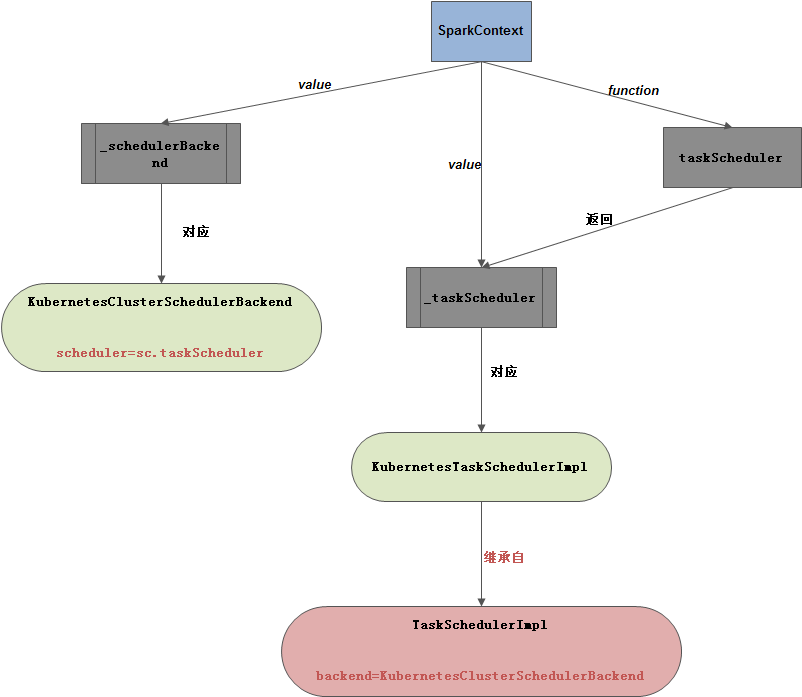
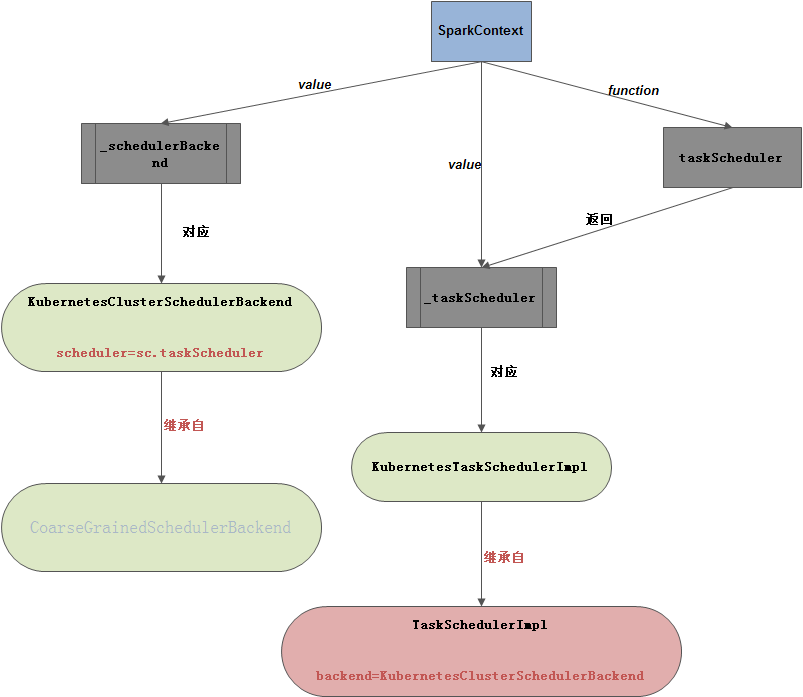
Add 2017-9-7-Spark-on-k8s-executor-creation.md

diff --git a/_posts/2017-9-7-Spark-on-k8s-executor-creation.md b/_posts/2017-9-7-Spark-on-k8s-executor-creation.md
@@ -967,10 +967,44 @@ private[spark] object Client {
   }
 ```
 
-创建`driver pod`如下：
+`val createdDriverPod = kubernetesClient.pods().create(resolvedDriverPod)`创建`driver pod`如下：
 
 ```scala
-`val createdDriverPod = kubernetesClient.pods().create(resolvedDriverPod)`
+    Utils.tryWithResource(
+        kubernetesClient
+            .pods()
+            .withName(resolvedDriverPod.getMetadata.getName)
+            .watch(loggingPodStatusWatcher)) { _ =>
+      val createdDriverPod = kubernetesClient.pods().create(resolvedDriverPod)
+      try {
+        val driverOwnedResources = Seq(initContainerConfigMap) ++
+          maybeSubmittedDependenciesSecret.toSeq ++
+          credentialsSecret.toSeq
+        val driverPodOwnerReference = new OwnerReferenceBuilder()
+          .withName(createdDriverPod.getMetadata.getName)
+          .withApiVersion(createdDriverPod.getApiVersion)
+          .withUid(createdDriverPod.getMetadata.getUid)
+          .withKind(createdDriverPod.getKind)
+          .withController(true)
+          .build()
+        driverOwnedResources.foreach { resource =>
+          val originalMetadata = resource.getMetadata
+          originalMetadata.setOwnerReferences(Collections.singletonList(driverPodOwnerReference))
+        }
+        kubernetesClient.resourceList(driverOwnedResources: _*).createOrReplace()
+      } catch {
+        case e: Throwable =>
+          kubernetesClient.pods().delete(createdDriverPod)
+          throw e
+      }
+      if (waitForAppCompletion) {
+        logInfo(s"Waiting for application $kubernetesAppId to finish...")
+        loggingPodStatusWatcher.awaitCompletion()
+        logInfo(s"Application $kubernetesAppId finished.")
+      } else {
+        logInfo(s"Deployed Spark application $kubernetesAppId into Kubernetes.")
+      }
+    }
 ```
 
 最后直接退出或者等待`driver`运行结束：
@@ -1471,7 +1505,7 @@ private[spark] class KubernetesTaskSchedulerImpl(sc: SparkContext) extends TaskS
   }
 ```
 
-**返回`KubernetesClusterSchedulerBackend`对象**
+**返回`KubernetesClusterSchedulerBackend`对象，该类继承`CoarseGrainedSchedulerBackend`类**
 
 3、再看`KubernetesClusterManager`的`initialize`函数，如下：
 
@@ -1520,4 +1554,317 @@ private[spark] class KubernetesTaskSchedulerImpl(sc: SparkContext) extends TaskS
 关系图示如下：
 
 ![](/public/img/spark/class_relation.png)
+
+再看如下代码：
+
+```scala
+    // start TaskScheduler after taskScheduler sets DAGScheduler reference in DAGScheduler's
+    // constructor
+    _taskScheduler.start()
+```
+
+运行`TaskSchedulerImpl`的`start`函数，如下：
+
+```scala
+  override def start() {
+    backend.start()
+
+    if (!isLocal && conf.getBoolean("spark.speculation", false)) {
+      logInfo("Starting speculative execution thread")
+      speculationScheduler.scheduleAtFixedRate(new Runnable {
+        override def run(): Unit = Utils.tryOrStopSparkContext(sc) {
+          checkSpeculatableTasks()
+        }
+      }, SPECULATION_INTERVAL_MS, SPECULATION_INTERVAL_MS, TimeUnit.MILLISECONDS)
+    }
+  }
+```
+
+运行`backend.start()`，也即运行`KubernetesClusterSchedulerBackend`的`start`函数，如下：
+
+```scala
+  override def start(): Unit = {
+    super.start()
+    executorWatchResource.set(kubernetesClient.pods().withLabel(SPARK_APP_ID_LABEL, applicationId())
+      .watch(new ExecutorPodsWatcher()))
+
+    allocator.scheduleWithFixedDelay(
+      allocatorRunnable, 0, podAllocationInterval, TimeUnit.SECONDS)
+
+    if (!Utils.isDynamicAllocationEnabled(sc.conf)) {
+      doRequestTotalExecutors(initialExecutors)
+    } else {
+      shufflePodCache = shuffleServiceConfig
+        .map { config => new ShufflePodCache(
+          kubernetesClient, config.shuffleNamespace, config.shuffleLabels) }
+      shufflePodCache.foreach(_.start())
+      kubernetesExternalShuffleClient.foreach(_.init(applicationId()))
+    }
+  }
+```
+
+1、运行`CoarseGrainedSchedulerBackend`的`start`函数，如下：
+
+```scala
+  override def start() {
+    val properties = new ArrayBuffer[(String, String)]
+    for ((key, value) <- scheduler.sc.conf.getAll) {
+      if (key.startsWith("spark.")) {
+        properties += ((key, value))
+      }
+    }
+
+    // TODO (prashant) send conf instead of properties
+    driverEndpoint = createDriverEndpointRef(properties)
+  }
+```
+
+2、`watch`具有如下labels:`spark-app-id`:`spark.kubernetes.driver.pod.name`的`Pod`状态：
+
+```scala
+    executorWatchResource.set(kubernetesClient.pods().withLabel(SPARK_APP_ID_LABEL, applicationId())
+      .watch(new ExecutorPodsWatcher()))
+```
+
+`ExecutorPodsWatcher`类如下：
+
+```scala
+  private class ExecutorPodsWatcher extends Watcher[Pod] {
+
+    override def eventReceived(action: Action, pod: Pod): Unit = {
+      if (action == Action.MODIFIED && pod.getStatus.getPhase == "Running"
+          && pod.getMetadata.getDeletionTimestamp == null) {
+        val podIP = pod.getStatus.getPodIP
+        val clusterNodeName = pod.getSpec.getNodeName
+        logDebug(s"Executor pod $pod ready, launched at $clusterNodeName as IP $podIP.")
+        EXECUTOR_PODS_BY_IPS_LOCK.synchronized {
+          executorPodsByIPs += ((podIP, pod))
+        }
+      } else if ((action == Action.MODIFIED && pod.getMetadata.getDeletionTimestamp != null) ||
+          action == Action.DELETED || action == Action.ERROR) {
+        val podName = pod.getMetadata.getName
+        val podIP = pod.getStatus.getPodIP
+        logDebug(s"Executor pod $podName at IP $podIP was at $action.")
+        if (podIP != null) {
+          EXECUTOR_PODS_BY_IPS_LOCK.synchronized {
+            executorPodsByIPs -= podIP
+          }
+        }
+      }
+    }
+
+    override def onClose(cause: KubernetesClientException): Unit = {
+      logDebug("Executor pod watch closed.", cause)
+    }
+  }
+```
+
+3、在`static allocation`配置下（默认配置），执行`doRequestTotalExecutors(initialExecutors)`函数，设置`totalExpectedExecutors`为参数`spark.executor.instances`，如下：
+
+```scala
+  protected var totalExpectedExecutors = new AtomicInteger(0)
+
+  override def doRequestTotalExecutors(requestedTotal: Int): Future[Boolean] = Future[Boolean] {
+    totalExpectedExecutors.set(requestedTotal)
+    true
+  }
+
+  private val initialExecutors = getInitialTargetExecutorNumber(1)
+
+  private def getInitialTargetExecutorNumber(defaultNumExecutors: Int = 1): Int = {
+    if (Utils.isDynamicAllocationEnabled(conf)) {
+      val minNumExecutors = conf.getInt("spark.dynamicAllocation.minExecutors", 0)
+      val initialNumExecutors = Utils.getDynamicAllocationInitialExecutors(conf)
+      val maxNumExecutors = conf.getInt("spark.dynamicAllocation.maxExecutors", 1)
+      require(initialNumExecutors >= minNumExecutors && initialNumExecutors <= maxNumExecutors,
+        s"initial executor number $initialNumExecutors must between min executor number " +
+          s"$minNumExecutors and max executor number $maxNumExecutors")
+
+      initialNumExecutors
+    } else {
+      conf.getInt("spark.executor.instances", defaultNumExecutors)
+    }
+
+  }
+```
+
+4、运行`allocatorRunnable`批量创建`executor`Pod，如下：
+
+```scala
+  private val runningExecutorPods = new mutable.HashMap[String, Pod] // Indexed by executor IDs.
+
+  // Total number of executors that are currently registered
+  protected val totalRegisteredExecutors = new AtomicInteger(0)
+
+  private val allocatorRunnable: Runnable = new Runnable {
+    override def run(): Unit = {
+      if (totalRegisteredExecutors.get() < runningExecutorPods.size) {
+        logDebug("Waiting for pending executors before scaling")
+      } else if (totalExpectedExecutors.get() <= runningExecutorPods.size) {
+        logDebug("Maximum allowed executor limit reached. Not scaling up further.")
+      } else {
+        RUNNING_EXECUTOR_PODS_LOCK.synchronized {
+          for (i <- 0 until math.min(
+            totalExpectedExecutors.get - runningExecutorPods.size, podAllocationSize)) {
+            runningExecutorPods += allocateNewExecutorPod()
+            logInfo(
+              s"Requesting a new executor, total executors is now ${runningExecutorPods.size}")
+          }
+        }
+      }
+    }
+  }
+``` 
+
+这是创建`executor`的主要函数，逻辑很简单：
+
+* 1、若已经成功创建的`executor` pod数量（`totalRegisteredExecutors`） < 已经发出创建请求的数量(`runningExecutorPods`)，则等待`k8s`创建`executor` pod，直到两者相等为止
+* 2、若需要创建的`executor` pod数量（`totalExpectedExecutors`）= 已经发出创建请求的数量(`runningExecutorPods`)，则不再发出新的创建请求
+* 3、否则，按照策略：`math.min(totalExpectedExecutors.get - runningExecutorPods.size, podAllocationSize)`批量发出`executor` pod 创建请求，并同时增加`runningExecutorPods`数值
+
+`podAllocationSize`数值如下：
+
+```scala
+  private val podAllocationSize = conf.get(KUBERNETES_ALLOCATION_BATCH_SIZE)
+
+  private[spark] val KUBERNETES_ALLOCATION_BATCH_SIZE =
+    ConfigBuilder("spark.kubernetes.allocation.batch.size")
+      .doc("Number of pods to launch at once in each round of dynamic allocation. ")
+      .intConf
+      .createWithDefault(5)
+```
+
+其中，当每个`executor` pod被成功创建后，会调用`CoarseGrainedSchedulerBackend`的`receiveAndReply`函数相应地增加`totalRegisteredExecutors`数值，这个后续会详细说明
+
+创建`executor` pod的具体逻辑在函数`allocateNewExecutorPod`中，如下：
+
+```scala
+  private def allocateNewExecutorPod(): (String, Pod) = {
+    val executorId = EXECUTOR_ID_COUNTER.incrementAndGet().toString
+    val name = s"${applicationId()}-exec-$executorId"
+
+    // hostname must be no longer than 63 characters, so take the last 63 characters of the pod
+    // name as the hostname.  This preserves uniqueness since the end of name contains
+    // executorId and applicationId
+    val hostname = name.substring(Math.max(0, name.length - 63))
+    val resolvedExecutorLabels = Map(
+      SPARK_EXECUTOR_ID_LABEL -> executorId,
+      SPARK_APP_ID_LABEL -> applicationId(),
+      SPARK_ROLE_LABEL -> "executor") ++
+      executorLabels
+    val executorMemoryQuantity = new QuantityBuilder(false)
+      .withAmount(s"${executorMemoryMb}M")
+      .build()
+    val executorMemoryLimitQuantity = new QuantityBuilder(false)
+      .withAmount(s"${executorMemoryWithOverhead}M")
+      .build()
+    val executorCpuQuantity = new QuantityBuilder(false)
+      .withAmount(executorCores)
+      .build()
+    val executorExtraClasspathEnv = executorExtraClasspath.map { cp =>
+      new EnvVarBuilder()
+        .withName(ENV_EXECUTOR_EXTRA_CLASSPATH)
+        .withValue(cp)
+        .build()
+    }
+    val requiredEnv = Seq(
+      (ENV_EXECUTOR_PORT, executorPort.toString),
+      (ENV_DRIVER_URL, driverUrl),
+      (ENV_EXECUTOR_CORES, executorCores),
+      (ENV_EXECUTOR_MEMORY, executorMemoryString),
+      (ENV_APPLICATION_ID, applicationId()),
+      (ENV_EXECUTOR_ID, executorId),
+      (ENV_MOUNTED_CLASSPATH, s"$executorJarsDownloadDir/*"))
+      .map(env => new EnvVarBuilder()
+        .withName(env._1)
+        .withValue(env._2)
+        .build()
+      ) ++ Seq(
+      new EnvVarBuilder()
+        .withName(ENV_EXECUTOR_POD_IP)
+        .withValueFrom(new EnvVarSourceBuilder()
+          .withNewFieldRef("v1", "status.podIP")
+          .build())
+        .build()
+      )
+    val requiredPorts = Seq(
+      (EXECUTOR_PORT_NAME, executorPort),
+      (BLOCK_MANAGER_PORT_NAME, blockmanagerPort))
+      .map(port => {
+        new ContainerPortBuilder()
+          .withName(port._1)
+          .withContainerPort(port._2)
+          .build()
+      })
+
+    val basePodBuilder = new PodBuilder()
+      .withNewMetadata()
+        .withName(name)
+        .withLabels(resolvedExecutorLabels.asJava)
+        .withAnnotations(executorAnnotations.asJava)
+        .withOwnerReferences()
+        .addNewOwnerReference()
+          .withController(true)
+          .withApiVersion(driverPod.getApiVersion)
+          .withKind(driverPod.getKind)
+          .withName(driverPod.getMetadata.getName)
+          .withUid(driverPod.getMetadata.getUid)
+        .endOwnerReference()
+      .endMetadata()
+      .withNewSpec()
+        .withRestartPolicy("Never")
+        .withHostname(hostname)
+        .addNewContainer()
+          .withName(s"executor")
+          .withImage(executorDockerImage)
+          .withImagePullPolicy("IfNotPresent")
+          .withNewResources()
+            .addToRequests("memory", executorMemoryQuantity)
+            .addToLimits("memory", executorMemoryLimitQuantity)
+            .addToRequests("cpu", executorCpuQuantity)
+            .addToLimits("cpu", executorCpuQuantity)
+          .endResources()
+          .addAllToEnv(requiredEnv.asJava)
+          .addToEnv(executorExtraClasspathEnv.toSeq: _*)
+          .withPorts(requiredPorts.asJava)
+        .endContainer()
+      .endSpec()
+
+    val withMaybeShuffleConfigPodBuilder = shuffleServiceConfig
+      .map { config =>
+        config.shuffleDirs.foldLeft(basePodBuilder) { (builder, dir) =>
+          builder
+            .editSpec()
+              .addNewVolume()
+                .withName(FilenameUtils.getBaseName(dir))
+                .withNewHostPath()
+                  .withPath(dir)
+                .endHostPath()
+              .endVolume()
+              .editFirstContainer()
+                .addNewVolumeMount()
+                  .withName(FilenameUtils.getBaseName(dir))
+                  .withMountPath(dir)
+                .endVolumeMount()
+              .endContainer()
+            .endSpec()
+        }
+      }.getOrElse(basePodBuilder)
+    val resolvedExecutorPod = executorInitContainerBootstrap.map { bootstrap =>
+      bootstrap.bootstrapInitContainerAndVolumes(
+        "executor",
+        withMaybeShuffleConfigPodBuilder)
+    }.getOrElse(withMaybeShuffleConfigPodBuilder)
+
+    try {
+      (executorId, kubernetesClient.pods.create(resolvedExecutorPod.build()))
+    } catch {
+      case throwable: Throwable =>
+        logError("Failed to allocate executor pod.", throwable)
+        throw throwable
+    }
+  }
+```
+
+返回创建的`executor` pod的`id`和`Pod`对象实例（这个时候`k8s`不一定成功创建了相应的`Pod`）
 
